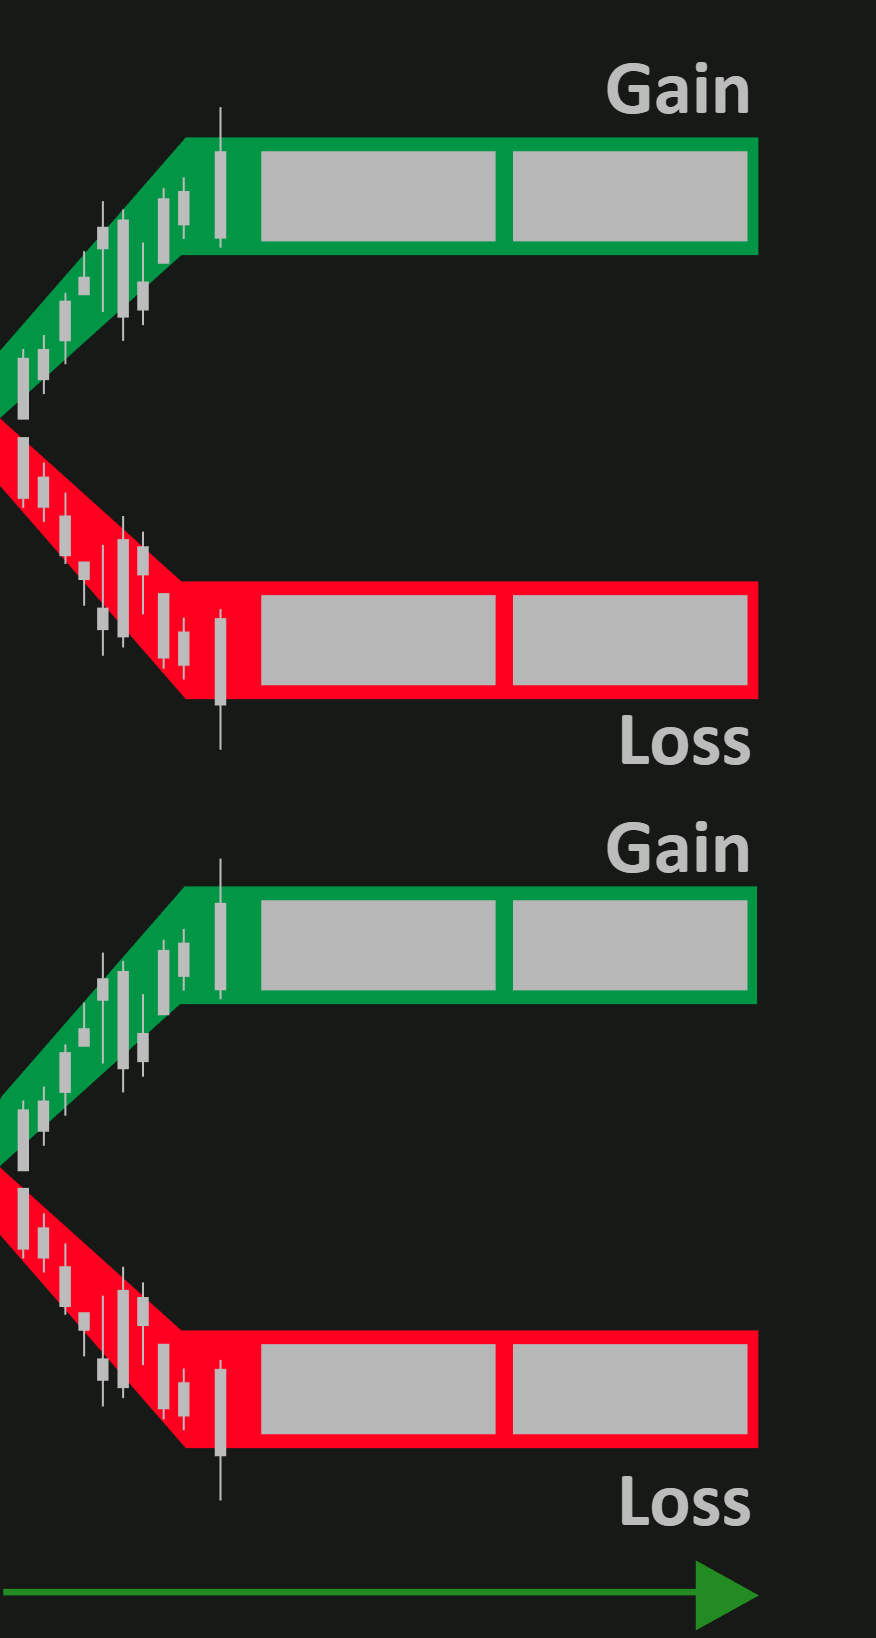
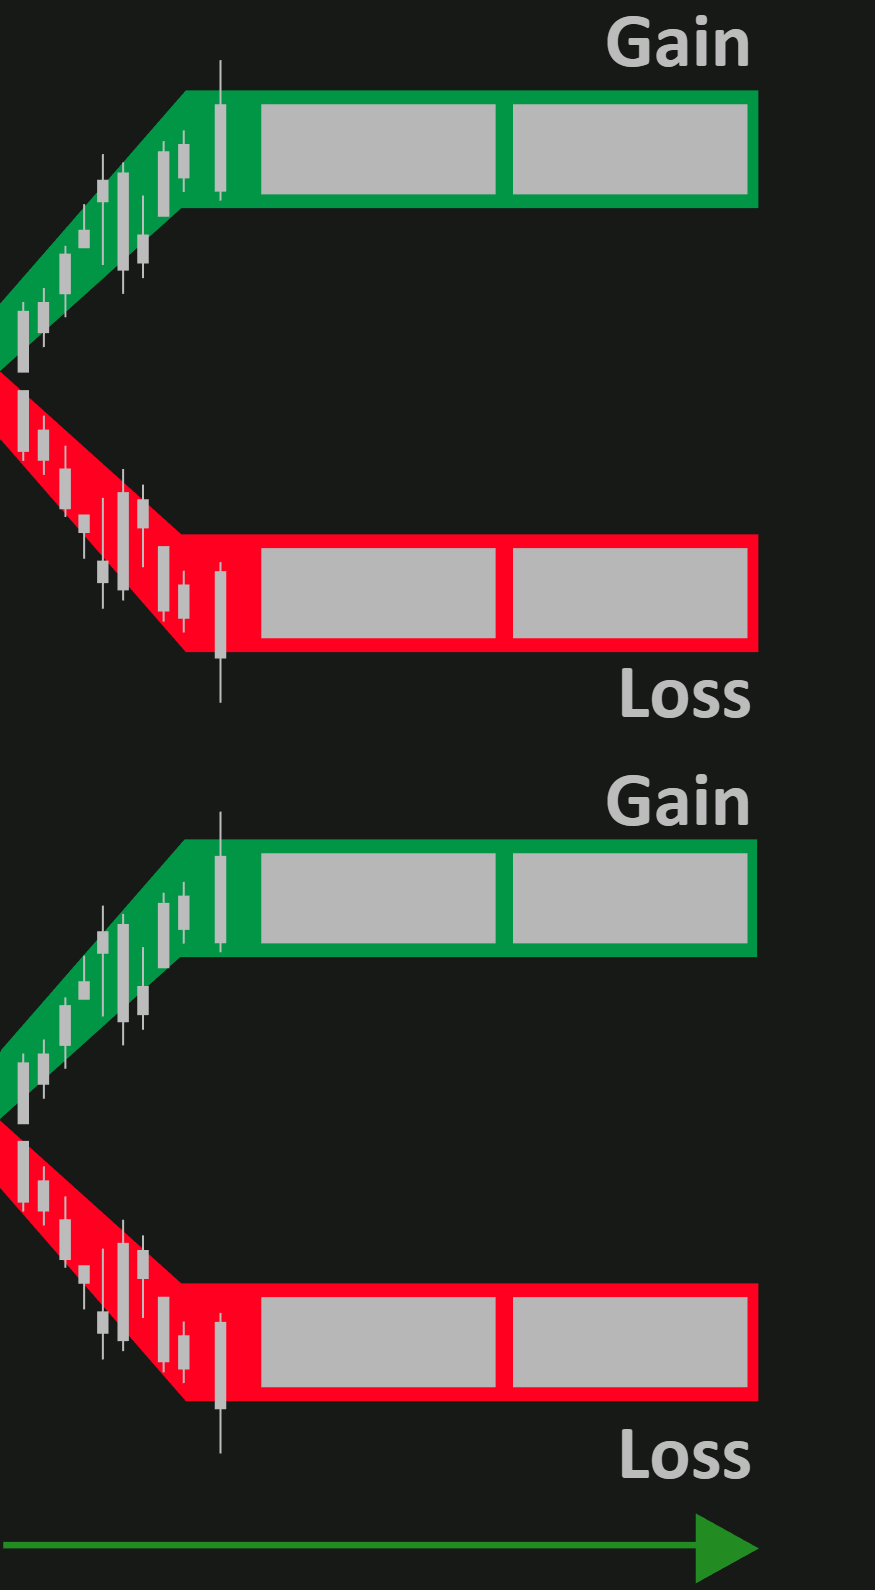
tamanho dos forms diminuido

Changed region(s): [[0.0, 0.0, 0.8949, 0.8013], [0.1234, 0.7704, 0.864, 0.9553], [0.0926, 0.8013, 0.1234, 0.8321]]

diff --git a/src/css/FormConfigurar.css b/src/css/FormConfigurar.css
@@ -1,9 +1,9 @@
 .configDiv {
-  max-width: 270px !important;
+  max-width: 210px !important;
   position: relative;
   left: 99%;
-  top: -430px;
-  padding-bottom: 1.85rem;
+  top: -427px;
+  padding-bottom: 2rem;
 }
 
 .configurarheader {
@@ -15,7 +15,7 @@
 }
 
 .imgConfigurar {
-  max-width: 75%;
+  max-width: 100%;
   display: flex;
 }
 .switchGrafico {

diff --git a/src/components/forms/compra_StartStop/GraficoCompraStartStop.js b/src/components/forms/compra_StartStop/GraficoCompraStartStop.js
@@ -15,7 +15,7 @@ class GraficoCompraStartStop extends React.Component {
     return (
       <Col className="colGrafico">
         <div className="imgContainer">
-          <img src={img} className="imgChart imgCST" alt="" />
+          <img src={img} className="imgChart" alt="" />
           <Form>
             <Form.Control
               type="number"

diff --git a/src/css/CompraStartStop.css b/src/css/CompraStartStop.css
@@ -1,11 +1,11 @@
 #comprastartstop {
-  min-width: 645px;
-  max-width: 645px;
+  min-width: 622px;
+  max-width: 622px;
 }
 
 #GainDisparoGrafico_CST {
   top: 14%;
-  left: 52%;
+  left: 50.5%;
 }
 
 #GainExecGrafico_CST {

diff --git a/src/css/Grafico.css b/src/css/Grafico.css
@@ -8,10 +8,6 @@
   display: block;
 }
 
-.imgCST {
-  height: 319px;
-}
-
 .colGrafico {
   display: flex;
   align-items: center;

diff --git a/src/css/BodyHeader.css b/src/css/BodyHeader.css
@@ -9,6 +9,7 @@
 
 .colAtivo1BodyHeader {
   padding-right: 0;
+  padding-left: 0;
 }
 
 .colAtivo2BodyHeader {

diff --git a/src/css/CompraAgendada.css b/src/css/CompraAgendada.css
@@ -1,5 +1,5 @@
 #compraagendada {
-  max-width: 713px;
+  max-width: 696px;
 }
 
 #GainDisparoGrafico_CA {

diff --git a/src/css/CompraLimitada.css b/src/css/CompraLimitada.css
@@ -1,5 +1,5 @@
 #compralimitada {
-  max-width: 713px;
+  max-width: 700px;
 }
 
 #GainDisparoGrafico_CL {

diff --git a/src/css/CompraMercado.css b/src/css/CompraMercado.css
@@ -1,5 +1,5 @@
 #compramercado {
-  max-width: 713px;
+  max-width: 700px;
   max-height: 430px;
 }
 
